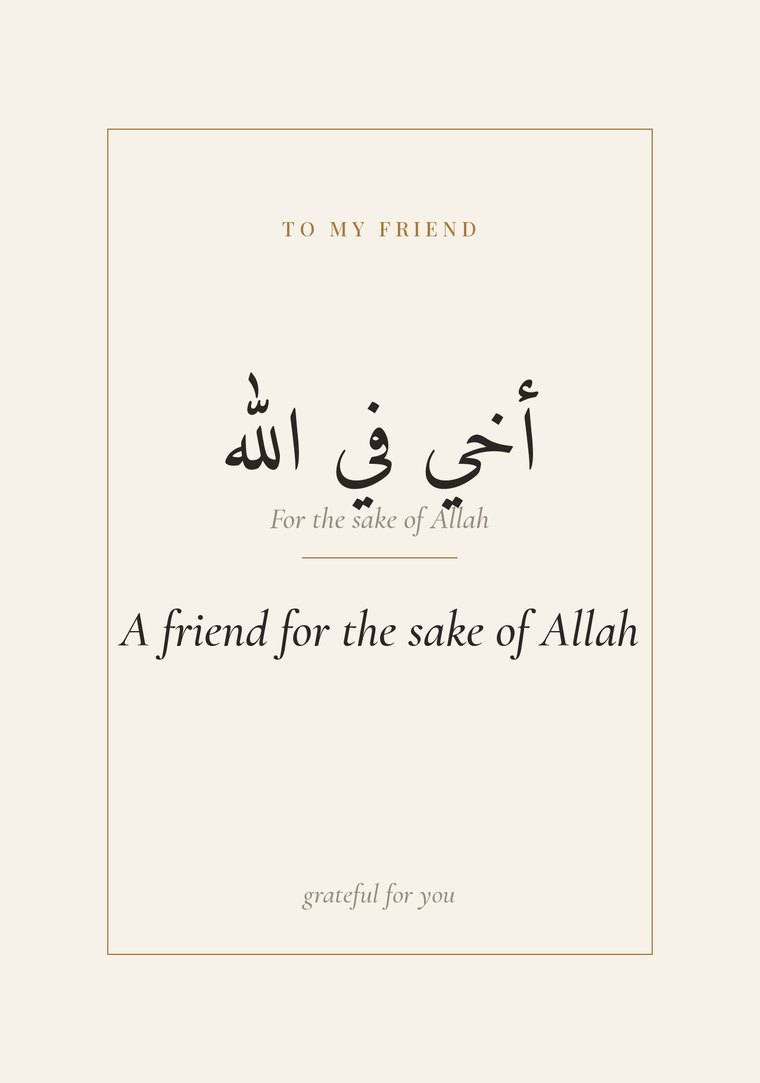
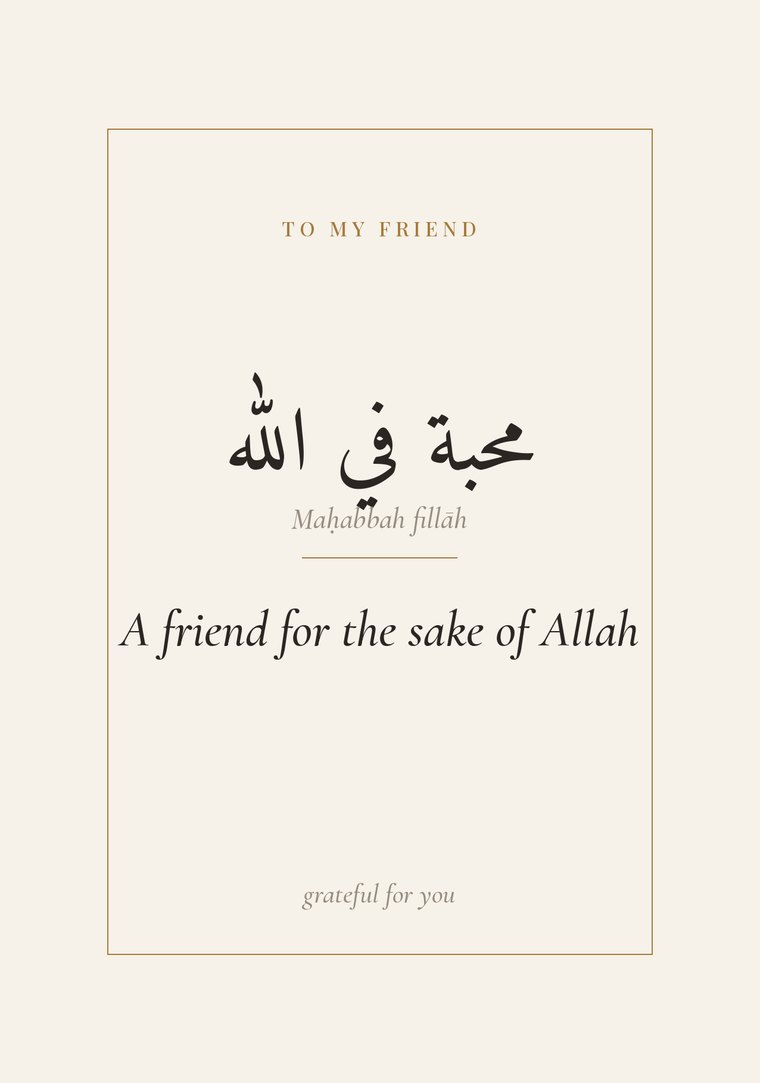
Cards: Arabic corrections (birthday + friend)
- Birthday: added "كل عام وأنتم بخير" (Kullu ʿām wa antum bi-khayr) — it was
  English-only before.
- Friend: changed "أخي في الله" (my brother in Allah — gendered, mislabelled)
  to the gender-neutral "محبة في الله" (Maḥabbah fillāh, love for the sake of
  Allah). Updated in both lib/cards.ts and the worker catalog; re-rendered.

Claude-Session: https://claude.ai/code/session_01V7oyHnvRA1dXmqBHGskAPy

Changed region(s): [[0.3632, 0.3352, 0.7263, 0.4875], [0.3026, 0.3352, 0.4237, 0.4571]]

diff --git a/lib/cards.ts b/lib/cards.ts
@@ -154,7 +154,7 @@ export const OCCASIONS: OccasionCard[] = [
     color: "#b35c3c",
     eyebrow: "Birthday wishes",
     en: "Happy Birthday",
-    words: [],
+    words: [{ ar: "كل عام وأنتم بخير", translit: "Kullu ʿām wa antum bi-khayr" }],
     dua: "May Allah bless your years with health and iman.",
     msg: "Happy Birthday! May Allah bless you with many more years of health, happiness and strong iman.",
   },
@@ -238,7 +238,7 @@ export const RELATIONSHIPS: RelationshipCard[] = [
     color: "#a87a3c",
     eyebrow: "To my friend",
     headlineEn: "A friend for the sake of Allah",
-    word: { ar: "أخي في الله", translit: "For the sake of Allah" },
+    word: { ar: "محبة في الله", translit: "Maḥabbah fillāh" },
     sub: "grateful for you",
     dua: "May Allah keep us together in this life and the next.",
     msg: "Grateful for a friendship built on something lasting. May Allah keep us close in this life and reunite us in Jannah.",